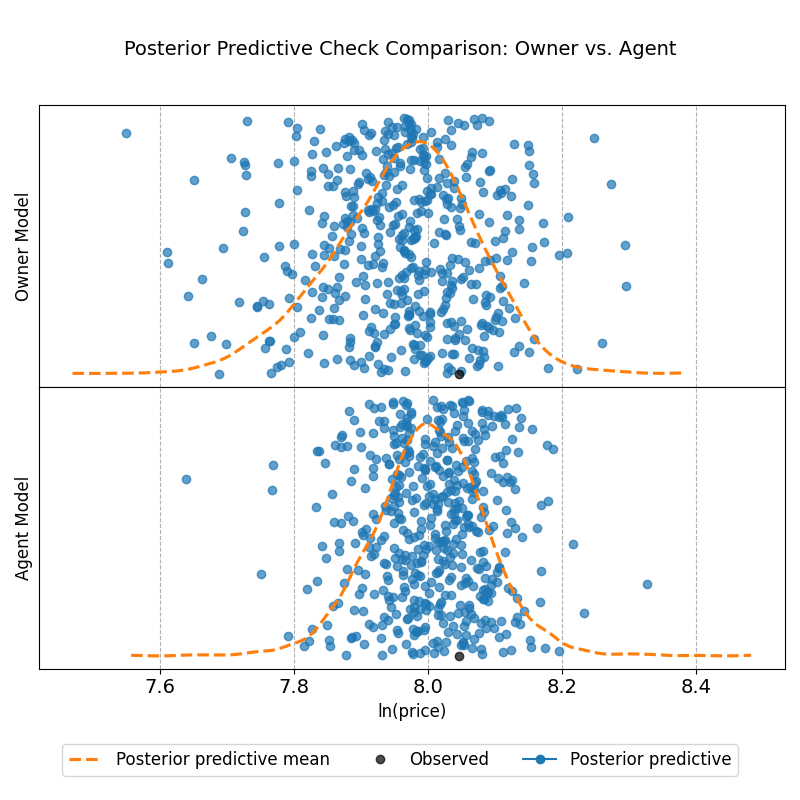
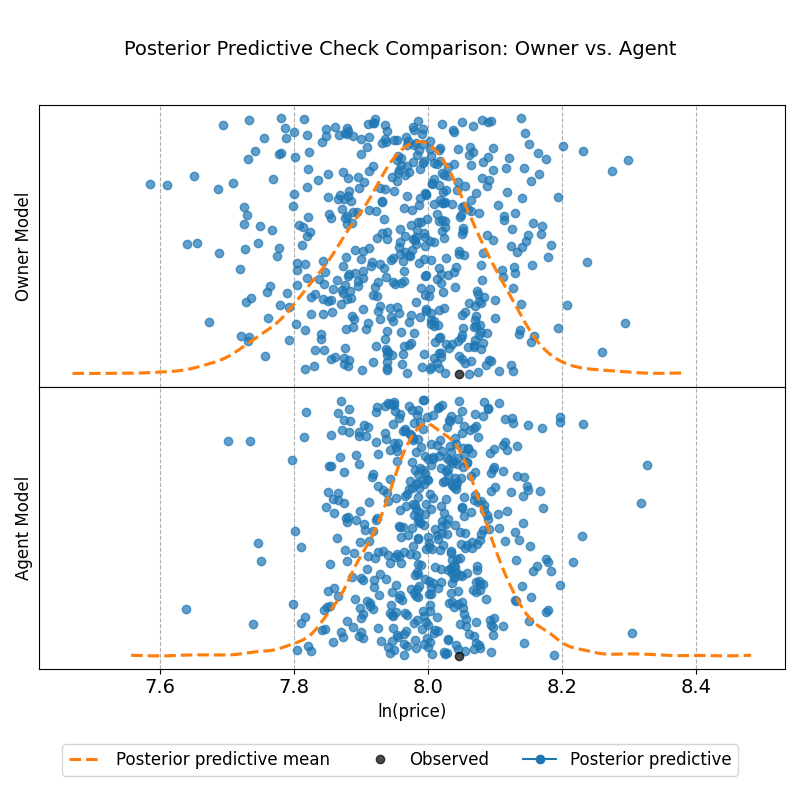
Slightly edited READ.me.

diff --git a/README.md b/README.md
@@ -1,8 +1,18 @@
 # 🏠 BaPPI — Bayesian Property Provider Identifier
 
+```text
+🏠   ____        _____  _____ ____  📈
+    |  _ \      |  __ \|  __ \   _|
+    | |_) | __ _| |__) | |__) | |  
+    |  _ < / _` |  ___/|  ___/| |  
+    | |_) | (_| | |    | |   _| |_ 
+    |____/ \__,_|_|    |_|  |_____|
+📊                                  🚀
+```
+
 ## 📋 Overview
 
-**BaPPI** is a hierarchical Bayesian inference framework designed to analyse simulated real estate markets and determine whether rental listings are more likely managed directly by property owners or by third-party agents.
+**BaPPI** is a hierarchical Bayesian inference framework designed to analyse simulated real estate markets in London and determine whether rental listings are more likely managed directly by property owners or by third-party agents.
 
 The engine models how structural property characteristics influence pricing whilst accounting for the additional pricing effects introduced by intermediaries. Using probabilistic inference and Sequential Monte Carlo sampling, BaPPI estimates posterior distributions over pricing parameters and evaluates competing generative explanations for observed property datasets.
 
@@ -242,7 +252,7 @@ python app/main.py
 
 ---
 
-# ▶ What `main.py` Does
+# ▶ What `main.py` does
 
 The main execution script automatically performs:
 
@@ -276,7 +286,7 @@ This approach allows the engine to:
 - Explicitly model uncertainty
 - Incorporate market-level volatility
 - Compare competing market hypotheses probabilistically
-- Measure how strongly the observed data support one market model relative to another using Bayes factors
+- Measure how strongly the observed data support one market model relative to another through the computation of the Bayes factor
 
 ---
 
